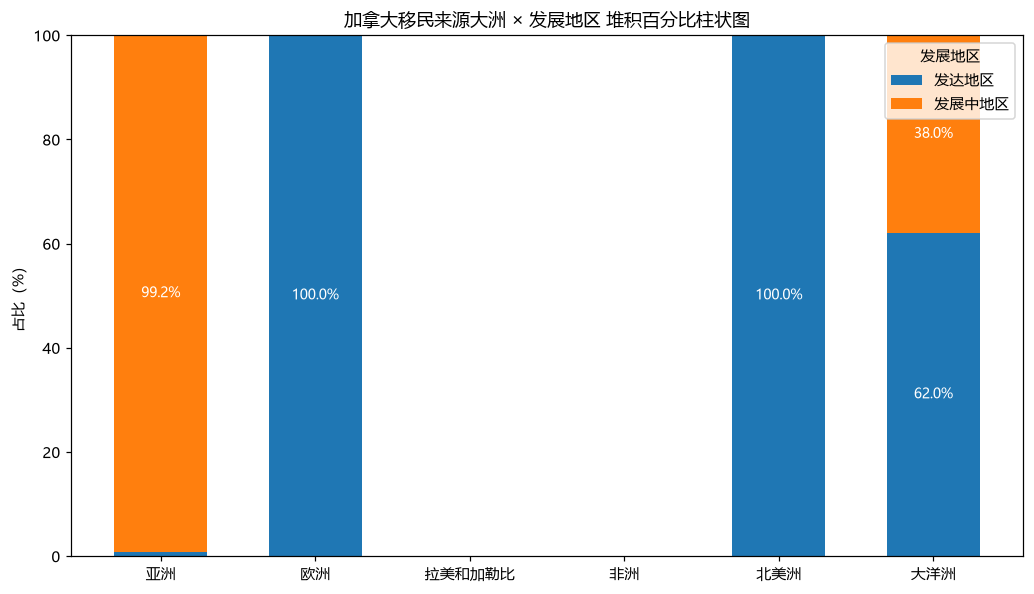
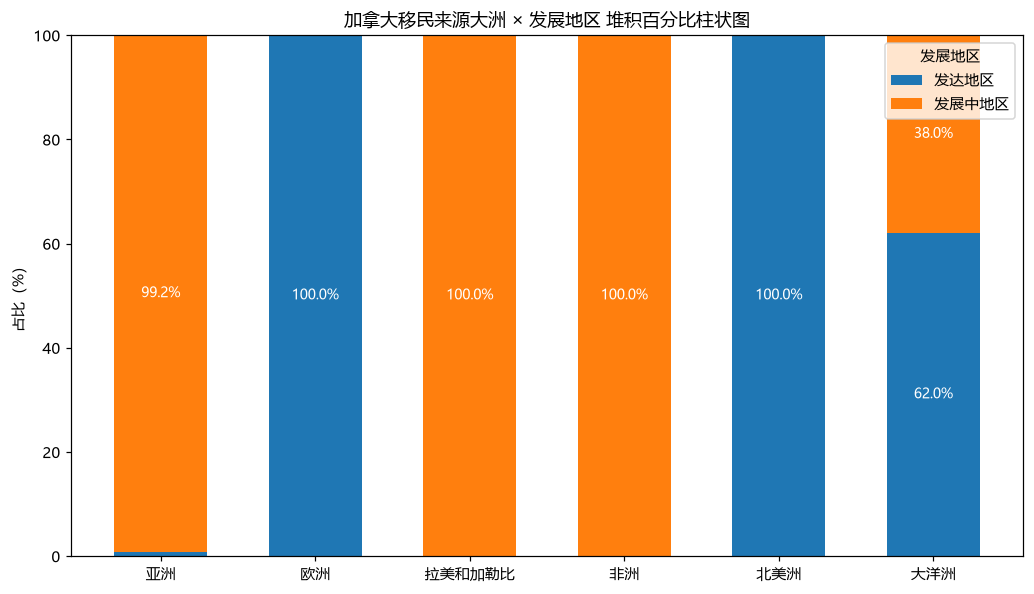
优化实验一旭日图：小份额合并为其他并右侧展开，修复数据 NaN

Changed region(s): [[0.4023, 0.0606, 0.5261, 0.9394], [0.5571, 0.0606, 0.6499, 0.9394]]

diff --git a/课程/大数据可视化/实验一/实验一.py b/课程/大数据可视化/实验一/实验一.py
@@ -4,6 +4,8 @@ import numpy as np
 import matplotlib
 matplotlib.use("Agg")
 import matplotlib.pyplot as plt
+from matplotlib import patheffects as pe
+import matplotlib.patches as mpatches
 
 BASE = r"C:\Users\omori\Omori-s-Codings\课程\大数据可视化"
 sys.path.insert(0, BASE)
@@ -126,7 +128,7 @@ fig.tight_layout()
 save(fig, "实验一_任务3_地区饼图.png")
 
 # ============ 实验一 任务4 堆积百分比柱状图 + 旭日图 ============
-pivot = ca.pivot_table(index="AreaName", columns="DevName", values="tot", aggfunc="sum")
+pivot = ca.pivot_table(index="AreaName", columns="DevName", values="tot", aggfunc="sum").fillna(0)
 pivot = pivot.reindex(area_order)[dev_order]
 pct = pivot.div(pivot.sum(axis=1), axis=0) * 100
 
@@ -146,31 +148,82 @@ ax.legend(title="发展地区", loc="upper right")
 fig.tight_layout()
 save(fig, "实验一_任务4_堆积百分比柱状图.png")
 
-# 旭日图（双层同心环）
-inner_vals = [area_sum[a] for a in area_order]
-outer_vals, outer_labels = [], []
+# 旭日图（子母饼图：大段保留，小份额合并为“其他”，右侧展开明细）
+AREA_SUN = {
+    "Asia": "亚洲", "Europe": "欧洲",
+    "Latin America and the Caribbean": "拉美加勒比",
+    "Africa": "非洲", "Northern America": "北美洲", "Oceania": "大洋洲",
+}
+DEV_SUN = {"Developed regions": "发达", "Developing regions": "发展中"}
+total_mig = area_sum.sum()
+area_colors = plt.cm.tab10(np.linspace(0, 1, len(area_order)))
+
+
+def sun_combo_color(a, d):
+    i = area_order.index(a)
+    return area_colors[i] * (1.0 if d == "Developed regions" else 0.5)
+
+
+big_rows, small_rows = [], []
 for a in area_order:
     for d in dev_order:
         v = pivot.loc[a, d]
-        if v > 0:
-            outer_vals.append(v)
-            outer_labels.append(f"{AREA_CN[a]}·{DEV_CN[d]}")
-area_colors = plt.cm.tab10(np.linspace(0, 1, len(area_order)))
-outer_colors = []
-for i, a in enumerate(area_order):
-    for d in dev_order:
-        if pivot.loc[a, d] > 0:
-            shade = 0.75 if d == "Developed regions" else 0.45
-            outer_colors.append(area_colors[i] * shade)
-fig, ax = plt.subplots(figsize=(9.5, 9.5))
-ax.pie(inner_vals, radius=0.62, labels=[AREA_CN[a] for a in area_order],
-       colors=area_colors, labeldistance=0.38,
+        if v <= 0:
+            continue
+        pct_v = v / total_mig * 100
+        row = (a, d, v, pct_v, sun_combo_color(a, d))
+        if pct_v >= 3:
+            big_rows.append(row)
+        else:
+            small_rows.append(row)
+small_total = sum(r[2] for r in small_rows)
+
+inner_vals = [area_sum[a] for a in area_order]
+inner_labels = [AREA_SUN[a] if a != "Oceania" else "" for a in area_order]
+outer_vals = [r[2] for r in big_rows] + [small_total]
+outer_labels = [DEV_SUN[r[1]] for r in big_rows] + ["其他"]
+outer_colors = [r[4] for r in big_rows] + [(0.55, 0.55, 0.55)]
+
+fig = plt.figure(figsize=(19, 9.5))
+ax = fig.add_axes([0.0, 0.18, 0.60, 0.78])
+ax.set_aspect("equal")
+wedges_in, texts_in = ax.pie(
+    inner_vals, radius=0.62, labels=inner_labels, colors=area_colors,
+    labeldistance=0.40, textprops=dict(color="white", weight="bold"),
+    wedgeprops=dict(width=0.34, edgecolor="white"))
+for i, t in enumerate(texts_in):
+    if t.get_text() == "":
+        continue
+    t.set_ha("center")
+    t.set_va("center")
+    t.set_fontsize(10 if inner_vals[i] / total_mig < 0.05 else 13)
+    t.set_path_effects([pe.withStroke(linewidth=2.2, foreground="#1a1a1a")])
+wedges_out, texts_out = ax.pie(outer_vals, radius=1.0, labels=outer_labels,
+       colors=outer_colors, labeldistance=1.08, textprops=dict(fontsize=12, color="#222222"),
        wedgeprops=dict(width=0.34, edgecolor="white"))
-ax.pie(outer_vals, radius=1.0, labels=outer_labels, colors=outer_colors,
-       labeldistance=1.06, rotatelabels=False,
-       wedgeprops=dict(width=0.34, edgecolor="white"))
-ax.set_title("加拿大移民来源大洲 × 发展地区 旭日图")
-fig.tight_layout()
+for t in texts_out:
+    t.set_ha("center")
+    t.set_va("center")
+ax.set_title("加拿大移民来源大洲 × 发展地区 旭日图（灰色“其他”=小份额，见右侧明细）", fontsize=14)
+
+handles = [mpatches.Patch(color=area_colors[i], label=f"{AREA_SUN[a]} {inner_vals[i]/total_mig*100:.1f}%")
+           for i, a in enumerate(area_order)]
+ax.legend(handles=handles, loc="lower center", bbox_to_anchor=(0.5, -0.22),
+          ncol=3, fontsize=12, frameon=False, columnspacing=1.6, handletextpad=0.6)
+
+ax2 = fig.add_axes([0.67, 0.22, 0.32, 0.60])
+ax2.set_aspect("equal")
+small_vals = [r[2] for r in small_rows]
+small_labels = [f"{AREA_SUN[r[0]]}·{DEV_SUN[r[1]]}" for r in small_rows]
+small_colors = [r[4] for r in small_rows]
+sum_small = sum(small_vals)
+wedges2, texts2, autotexts2 = ax2.pie(
+    small_vals, colors=small_colors, startangle=90, counterclock=False,
+    autopct=lambda p: f"{p:.1f}%\n({int(p/100*sum_small):,})",
+    pctdistance=0.70, textprops=dict(fontsize=12, color="white", weight="bold"))
+ax2.legend(wedges2, [f"{l}  {v:,.0f}人" for l, v in zip(small_labels, small_vals)],
+           loc="lower center", bbox_to_anchor=(0.5, -0.20), fontsize=11, frameon=False)
+ax2.set_title(f"『其他』小份额明细（合计 {sum_small/total_mig*100:.1f}%）", fontsize=14)
 save(fig, "实验一_任务4_旭日图.png")
 
 # ============ 实验一 任务5 对比 ============

diff --git a/课程/大数据可视化/实验一/实验一_报告.md b/课程/大数据可视化/实验一/实验一_报告.md
@@ -70,7 +70,7 @@
 
 ![任务4b](图/实验一_任务4_旭日图.png)
 
-**两图对比**：堆积百分比柱状图能精确比较各大洲内部发达/发展中的比例；旭日图则用内圈（大洲）→外圈（发展地区）的环形层级，更直观地展现整体构成与层级归属，但对精确读数和跨类别比较不如柱状图。此处两层数据层次清晰，旭日图可读性良好，二者互为补充。
+**两图对比**：堆积百分比柱状图能精确比较各大洲内部发达/发展中的比例；旭日图则用内圈（大洲）→外圈（发展地区）的环形层级，更直观地展现整体构成与层级归属，但对精确读数和跨类别比较不如柱状图。为改善可读性，旭日图将占比小于 1% 的小份额地区（亚洲·发达、大洋洲·发达、大洋洲·发展中，合计约 1.3%）在主图上合并为一个灰色「其他」扇区，并在右侧单独展开为小饼图展示明细。
 
 ## 八、任务 5：两国移民情况对比（1.8）
 
